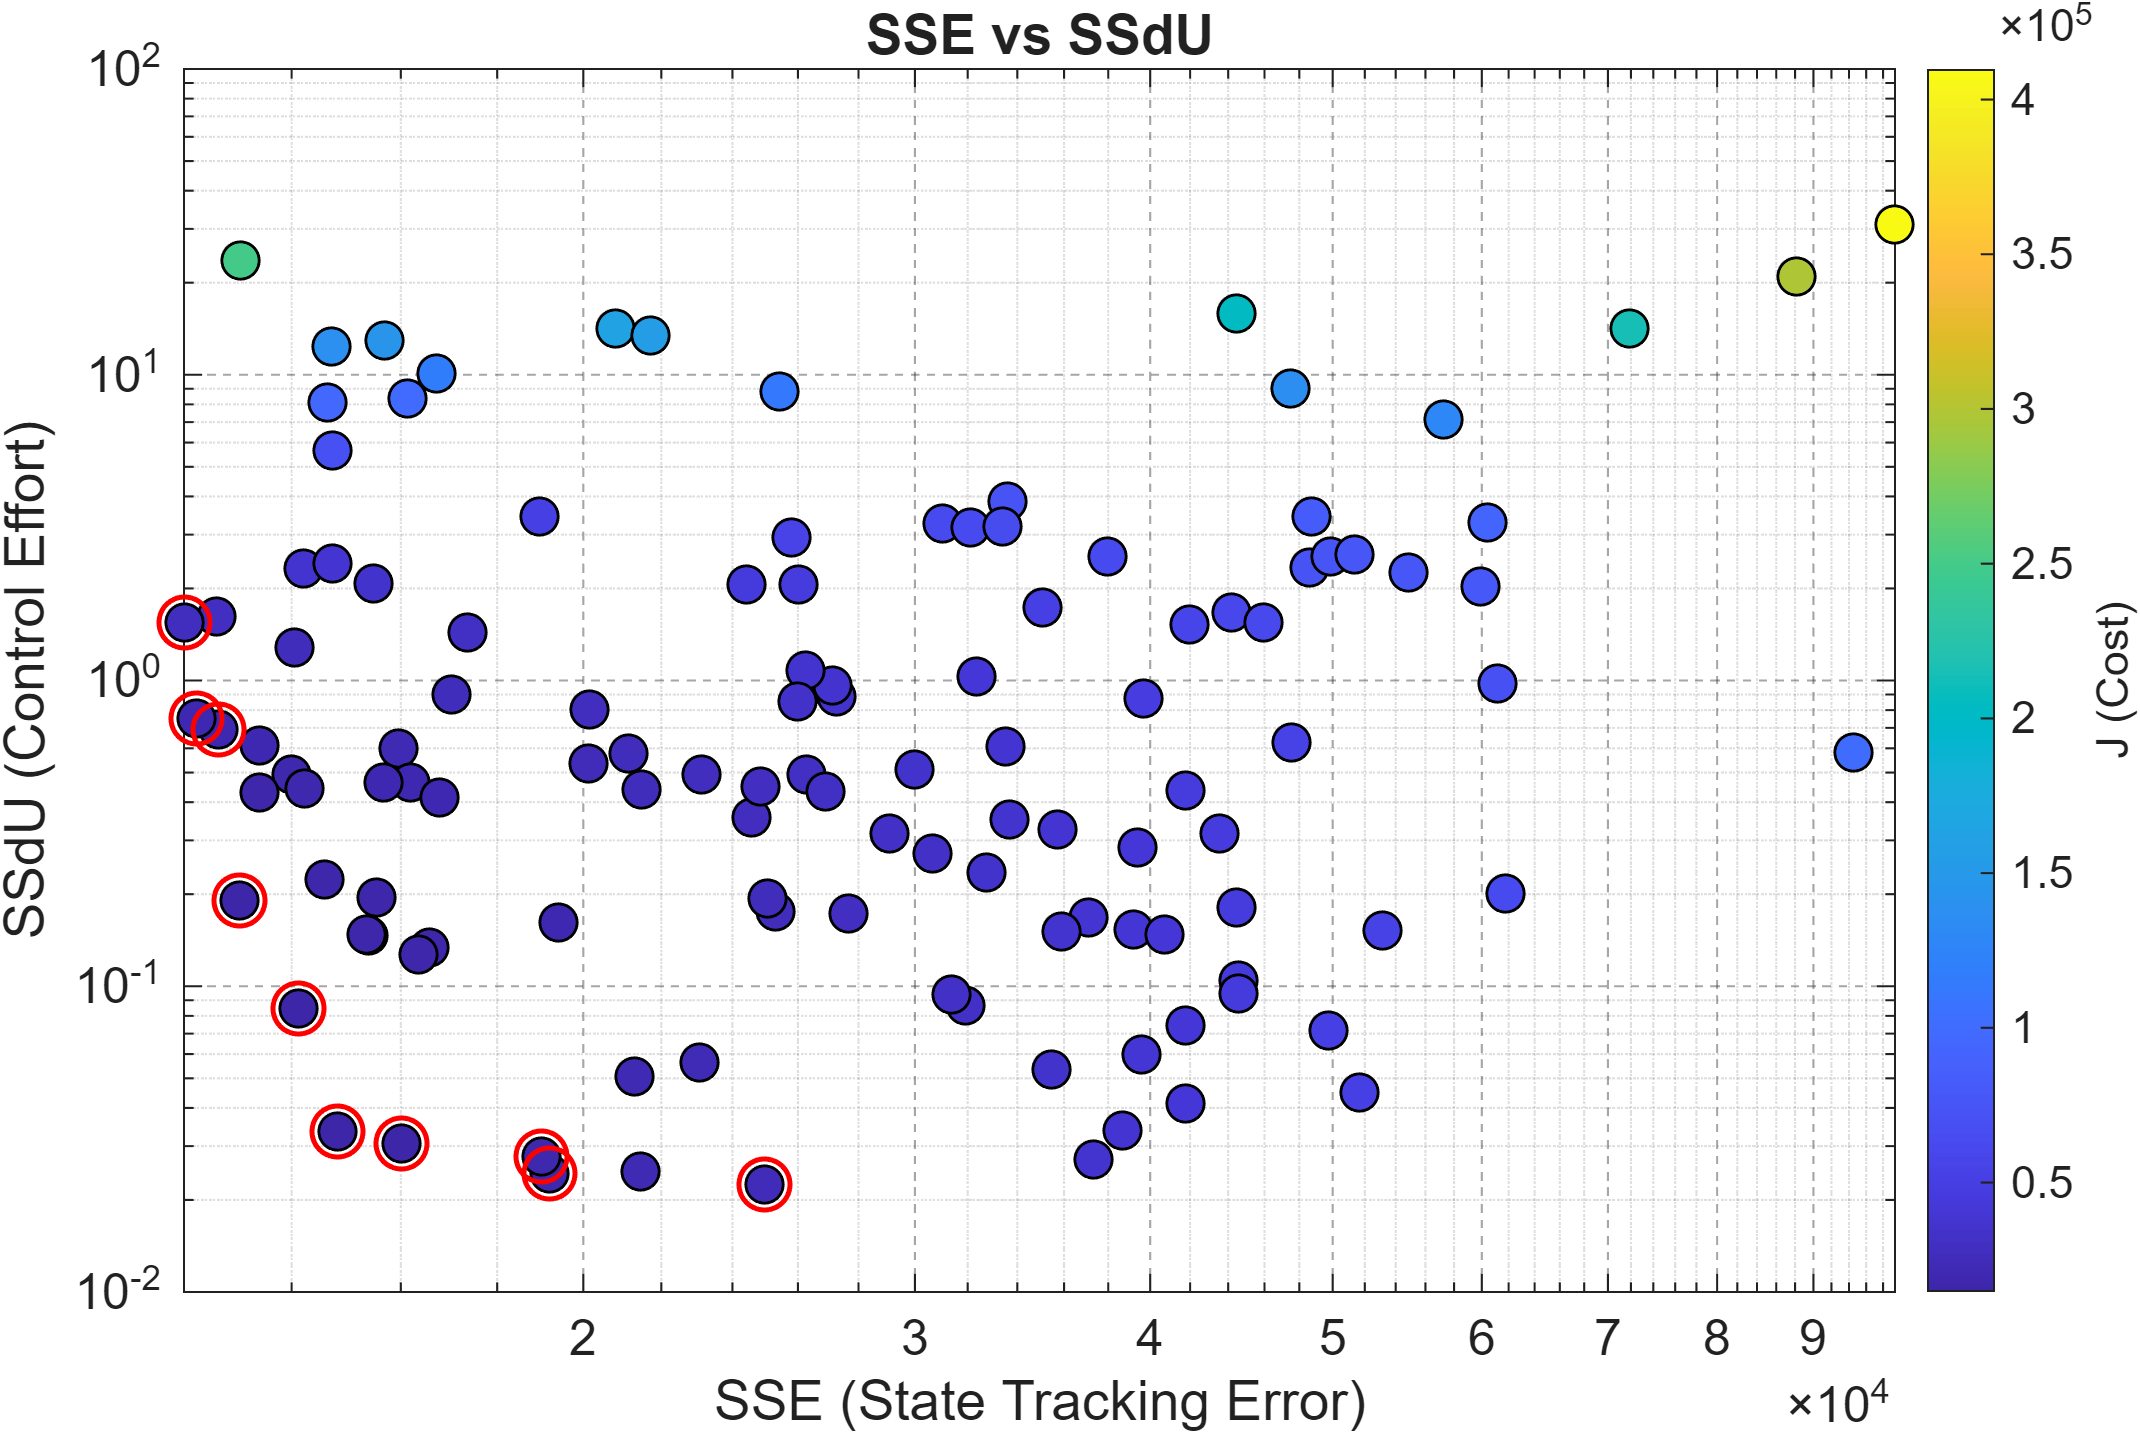
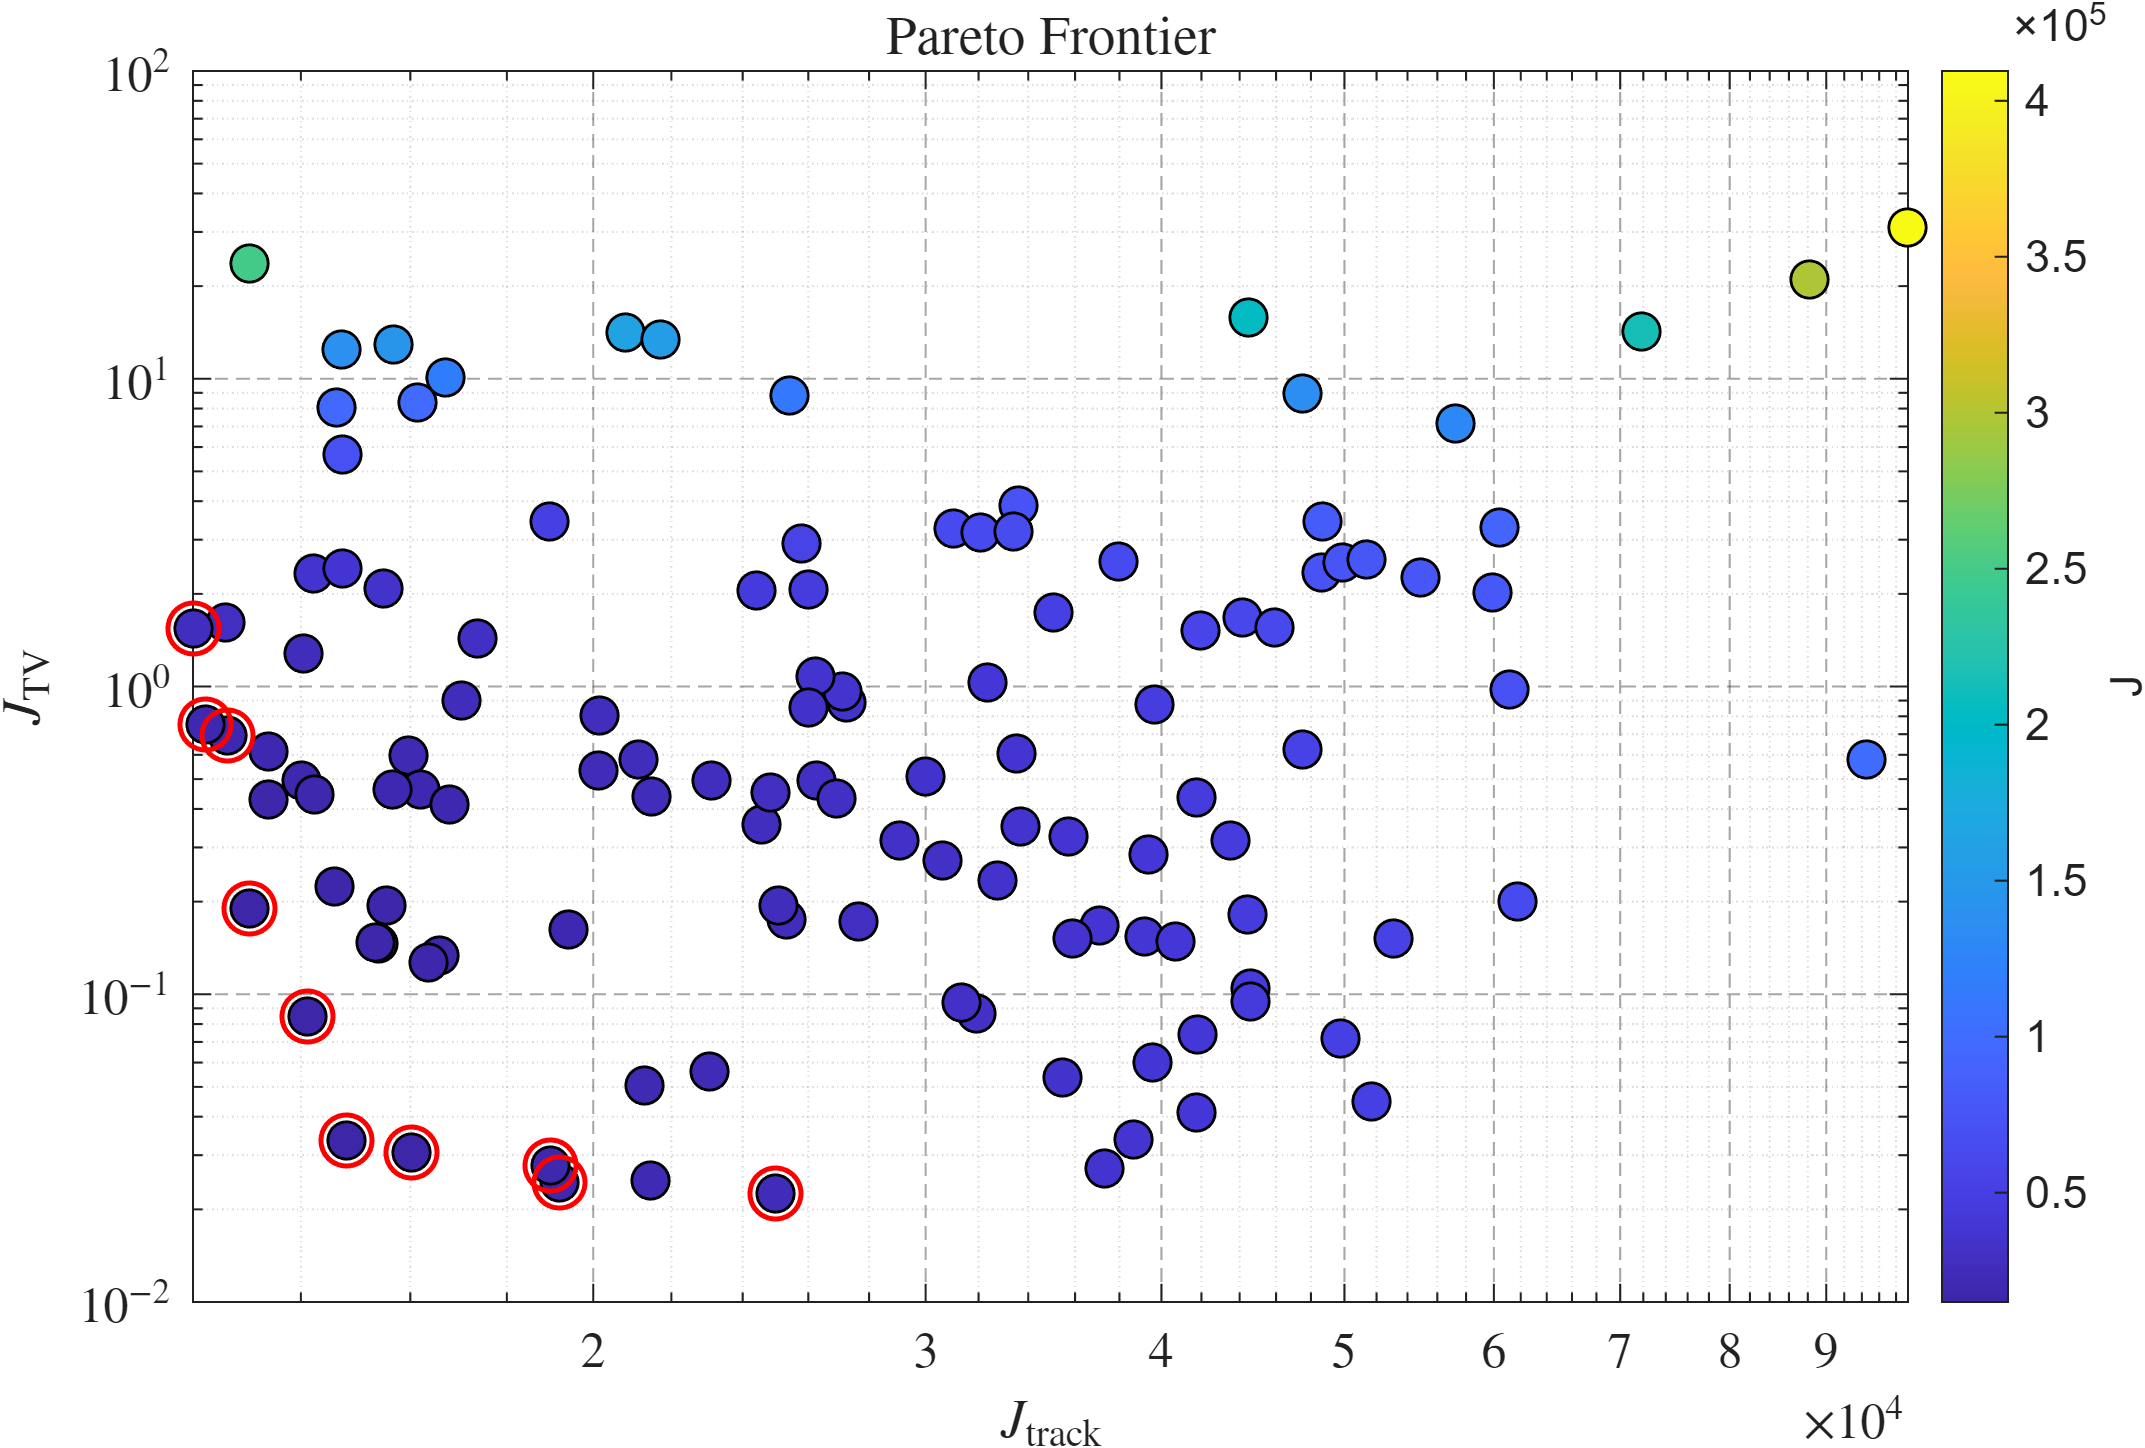
update

diff --git a/analysis_matlab.m b/analysis_matlab.m
@@ -1,167 +1,67 @@
-% analyze_mfbo_results.m
-% Load MFBO optimisation results from results/results.csv (same schema as matlab_interface.read_results)
-% Decode theta columns and reproduce:
-%   (1) SSE vs SSdU scatter, coloured by J, sized by theta_p
-%   (2) Runtime (minutes) vs iteration with vertical line at iter=20
-%
-% Outputs (PNG):
-%   results/sse_vs_ssdu.png
-%   results/runtime_vs_iteration.png
+% --- Global text interpreter (LaTeX) ---
+set(groot, "defaultTextInterpreter", "latex");
+set(groot, "defaultAxesTickLabelInterpreter", "latex");
+set(groot, "defaultLegendInterpreter", "latex");
 
-clear; close all; clc
-
-%% --- Paths / options ---
-csvPath         = fullfile("results", "results.csv");
-outScatterPath  = fullfile("results", "sse_vs_ssdu.png");
-outRuntimePath  = fullfile("results", "runtime_vs_iteration.png");
-showFigures     = false;     % set true to keep figures open
-
-if ~isfile(csvPath)
-    error("CSV not found: %s", csvPath);
-end
-if ~isfolder("results")
-    mkdir("results");
-end
-
-%% --- Load CSV (expects columns: timestamp,SSE,SSdU,J,runtime_s,theta_1..theta_12) ---
-T = readtable(csvPath, "TextType", "string");
-
-requiredCols = ["timestamp","SSE","SSdU","J","runtime_s"];
-for c = requiredCols
-    if ~ismember(c, string(T.Properties.VariableNames))
-        error("Missing required column '%s' in %s", c, csvPath);
-    end
-end
-for i = 1:12
-    nm = "theta_" + i;
-    if ~ismember(nm, string(T.Properties.VariableNames))
-        error("Missing required column '%s' in %s", nm, csvPath);
-    end
-end
-
-%% --- Parse / derive fields (equivalent to Python build_results_dataframe) ---
-% timestamp format: YYYYmmdd_HHMMSS
-T.timestamp_dt = datetime(T.timestamp, "InputFormat","yyyyMMdd_HHmmss");
-
-T.iteration   = (1:height(T)).';
-T.runtime_min = T.runtime_s / 60;
-
-% Rename theta columns (keep originals too)
-T.f        = double(T.theta_1);
-T.theta_p  = double(T.theta_2);
-T.theta_m  = double(T.theta_3);
-T.q1_log10 = double(T.theta_4);
-T.q2_log10 = double(T.theta_5);
-T.q3_log10 = double(T.theta_6);
-
-T.r_u1_log10  = double(T.theta_7);
-T.r_u2_log10  = double(T.theta_8);
-T.r_u3_log10  = double(T.theta_9);
-
-T.r_du1_log10 = double(T.theta_10);
-T.r_du2_log10 = double(T.theta_11);
-T.r_du3_log10 = double(T.theta_12);
-
-% Integral parameters
-T.theta_p = round(T.theta_p);
-T.theta_m = round(T.theta_m);
-
-% Derived diagonal weights (SERIES_LABELS = {"x1","x2","x3"})
-T.Q_x1    = 10.^T.q1_log10;
-T.Q_x2    = 10.^T.q2_log10;
-T.Q_x3    = 10.^T.q3_log10;
-
-T.R_u_x1  = 10.^T.r_u1_log10;
-T.R_u_x2  = 10.^T.r_u2_log10;
-T.R_u_x3  = 10.^T.r_u3_log10;
-
-T.R_du_x1 = 10.^T.r_du1_log10;
-T.R_du_x2 = 10.^T.r_du2_log10;
-T.R_du_x3 = 10.^T.r_du3_log10;
-
-% Horizon mapping
-T.m = T.theta_m + 1;
-T.p = T.theta_p + T.m;
-
-%% --- Plot: SSE vs SSdU (no size encoding) ---
+%% --- Plot: J_track vs J_TV (no size encoding) ---
 fig1 = figure("Color","w");
 ax1 = axes(fig1); hold(ax1,"on"); grid(ax1,"on"); box(ax1,"on");
 
-x = double(T.SSE);
-y = double(T.SSdU);
+x = double(T.SSE);   % J_track
+y = double(T.SSdU);  % J_TV
 c = double(T.J);
 
-markerSize = 80;   % fixed marker area (points^2)
+markerSize = 80;     % fixed marker area (points^2)
 
-sc = scatter(ax1, x, y, markerSize, c, ...
+scatter(ax1, x, y, markerSize, c, ...
     "filled", ...
     "MarkerEdgeColor","k", ...
     "LineWidth",0.7);
 
 set(ax1, "XScale","log", "YScale","log");
 
-title(ax1, "SSE vs SSdU");
-xlabel(ax1, "SSE (State Tracking Error)");
-ylabel(ax1, "SSdU (Control Effort)");
+title(ax1, "Pareto Frontier");
+xlabel(ax1, "$J_{\mathrm{track}}$");
+ylabel(ax1, "$J_{\mathrm{TV}}$");
 
 ax1.GridLineStyle = "--";
 ax1.GridAlpha = 0.4;
 
 cb = colorbar(ax1);
-cb.Label.String = "J (Cost)";
+cb.Label.String = "J";
 
 set(ax1, "FontSize", 12);
 
-
-% %--- Pareto frontier extraction (minimise SSE and SSdU) and table display ---
-% Assumes table T already exists in workspace from the earlier script, with:
-%   T.SSE, T.SSdU, T.p, T.m, T.J, T.iteration, T.timestamp_dt, T.runtime_min
-
-% Ensure numeric vectors
-SSE  = double(T.SSE);
-SSdU = double(T.SSdU);
-
-n = numel(SSE);
-isPareto = true(n,1);
-
-% Nondominated set for 2 objectives (minimise both):
-% Point i is dominated if ∃ j with (SSE_j <= SSE_i) & (SSdU_j <= SSdU_i) and at least one strict.
-for i = 1:n
-    dom = (SSE <= SSE(i)) & (SSdU <= SSdU(i)) & ( (SSE < SSE(i)) | (SSdU < SSdU(i)) );
-    dom(i) = false; % ignore self
-    if any(dom)
-        isPareto(i) = false;
-    end
-end
-
-% Extract and sort frontier for readability (decreasing SSE)
-Tp = T(isPareto, :);
-[~, ord] = sort(double(Tp.SSE), "descend");
-Tp = Tp(ord, :);
-
-% Select columns to display (edit as needed)
-cols = ["iteration","timestamp_dt","SSE","SSdU","J","p","m","theta_p","theta_m","runtime_min","f"];
-cols = cols(ismember(cols, string(Tp.Properties.VariableNames))); % keep only those that exist
-
-ParetoTable = Tp(:, cols);
-
-% Display in Command Window
-disp("Pareto frontier points (minimise SSE and SSdU):");
-disp(ParetoTable);
-
-% If you want indices in the original table:
-paretoIdx = find(isPareto);
-disp("Row indices in T for Pareto points:");
-disp(paretoIdx);
-
-% Optionally write to CSV:
-% writetable(ParetoTable, fullfile("results","pareto_points.csv"));
-
-% Highlight Pareto frontier on the log-log scatter plot with open circles
+% Highlight Pareto frontier with open red circles
 paretoMarkerSize = 150;
 scatter(ax1, x(isPareto), y(isPareto), paretoMarkerSize, ...
     "MarkerEdgeColor","r", ...
     "MarkerFaceColor","none", ...
     "LineWidth",1.2);
 
-exportgraphics(fig1, fullfile("results","sse_vs_ssdu.png"), "Resolution", 300);
+exportgraphics(fig1, outScatterPath, "Resolution", 300);
+
+%% --- Plot: runtime vs iteration (minutes), with iter=20 line ---
+fig2 = figure("Color","w");
+ax2 = axes(fig2); hold(ax2,"on"); grid(ax2,"on"); box(ax2,"on");
+
+plot(ax2, T.iteration, T.runtime_min, "-o", ...
+    "LineWidth", 2.0, "MarkerSize", 6);
+
+xline(ax2, 20, "--", "Optimisation start (k=20)", ...
+    "LineWidth", 1.3, ...
+    "LabelVerticalAlignment","middle", ...
+    "LabelHorizontalAlignment","left", ...
+    "FontSize",14);
+
+xlabel(ax2, "$k$ (iteration)", "FontSize",14);
+ylabel(ax2, "$t_{\mathrm{run}}$ (min)", "FontSize",14);
+title(ax2, "Iteration runtime");
+
+ax2.GridLineStyle = "--";
+ax2.GridAlpha = 0.4;
+
+
+set(ax2, "FontSize", 12);
+
+exportgraphics(fig2, outRuntimePath, "Resolution", 300);
